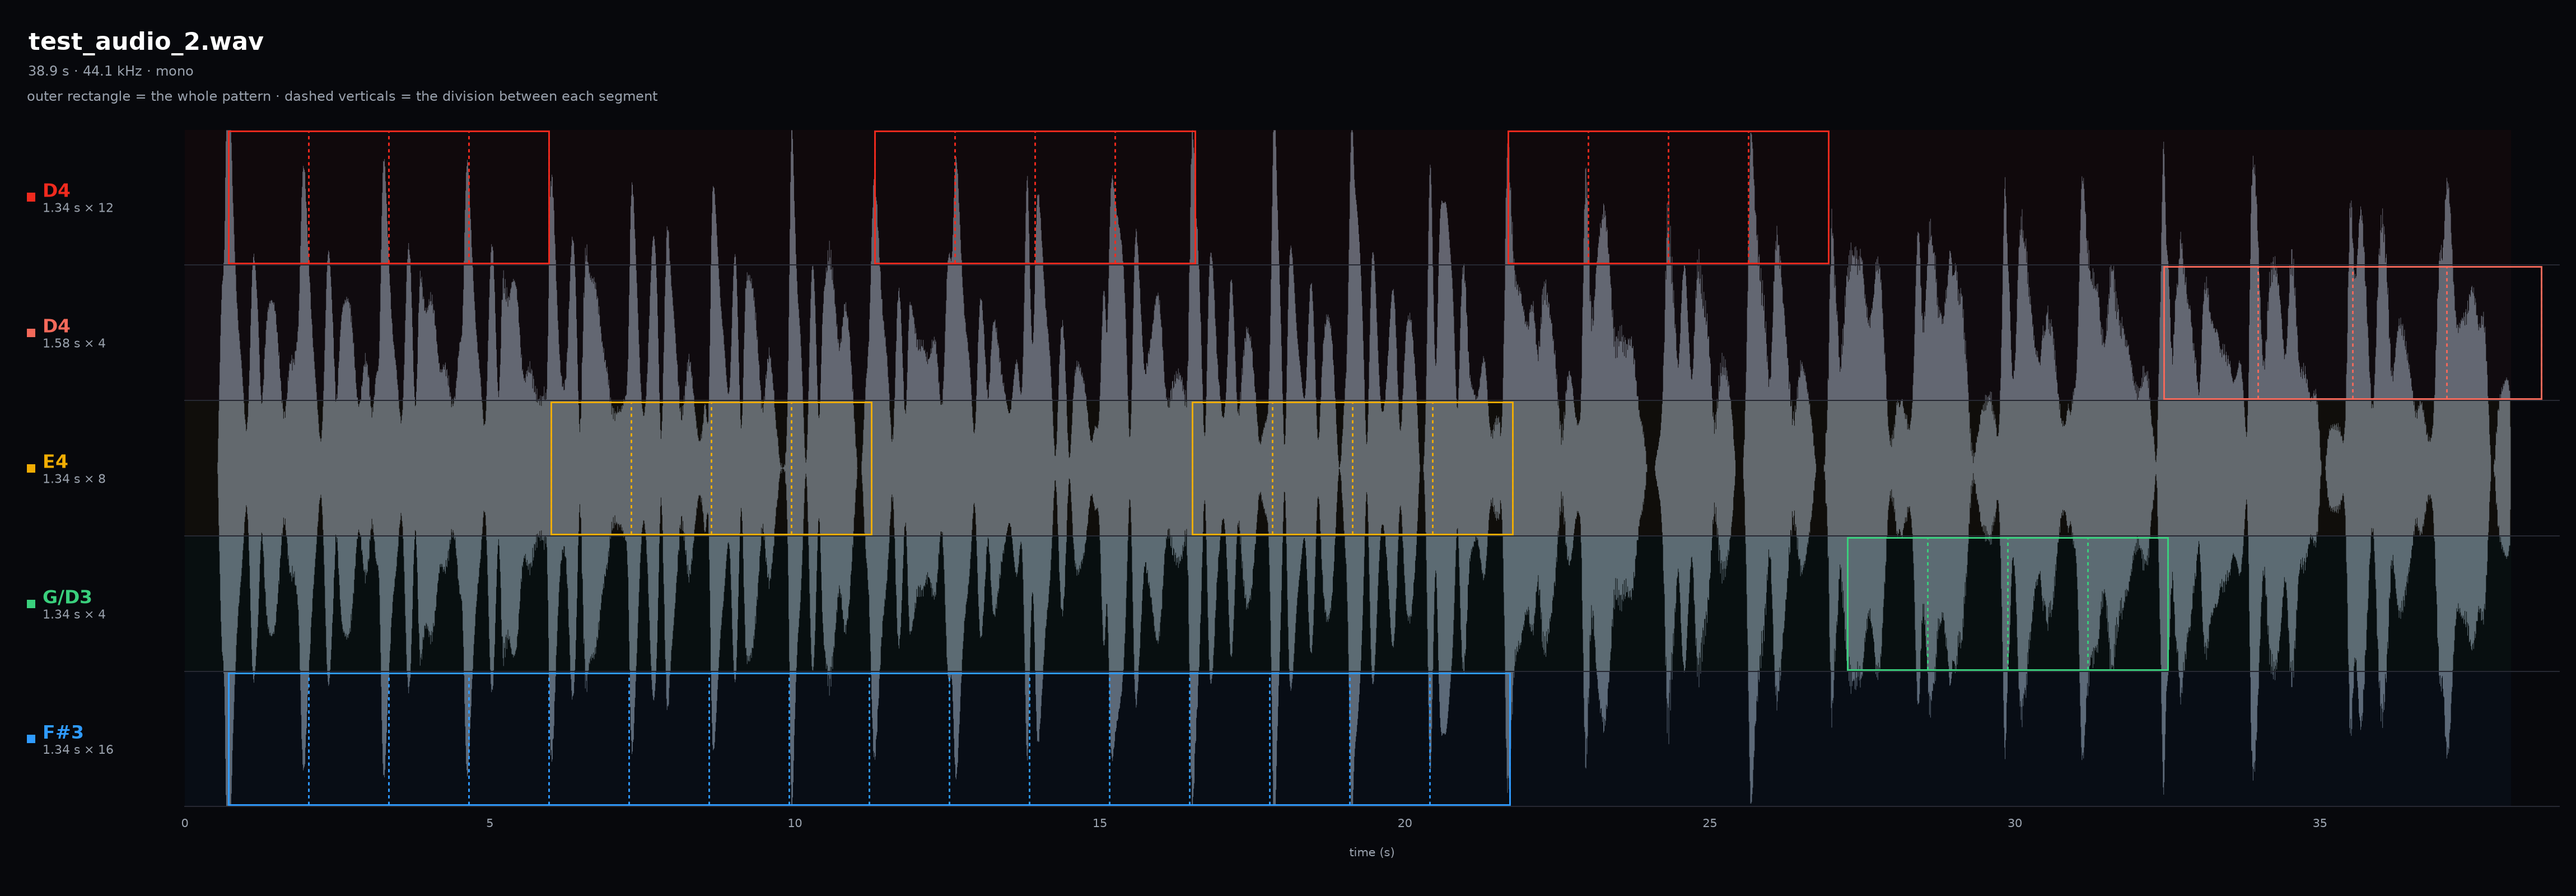
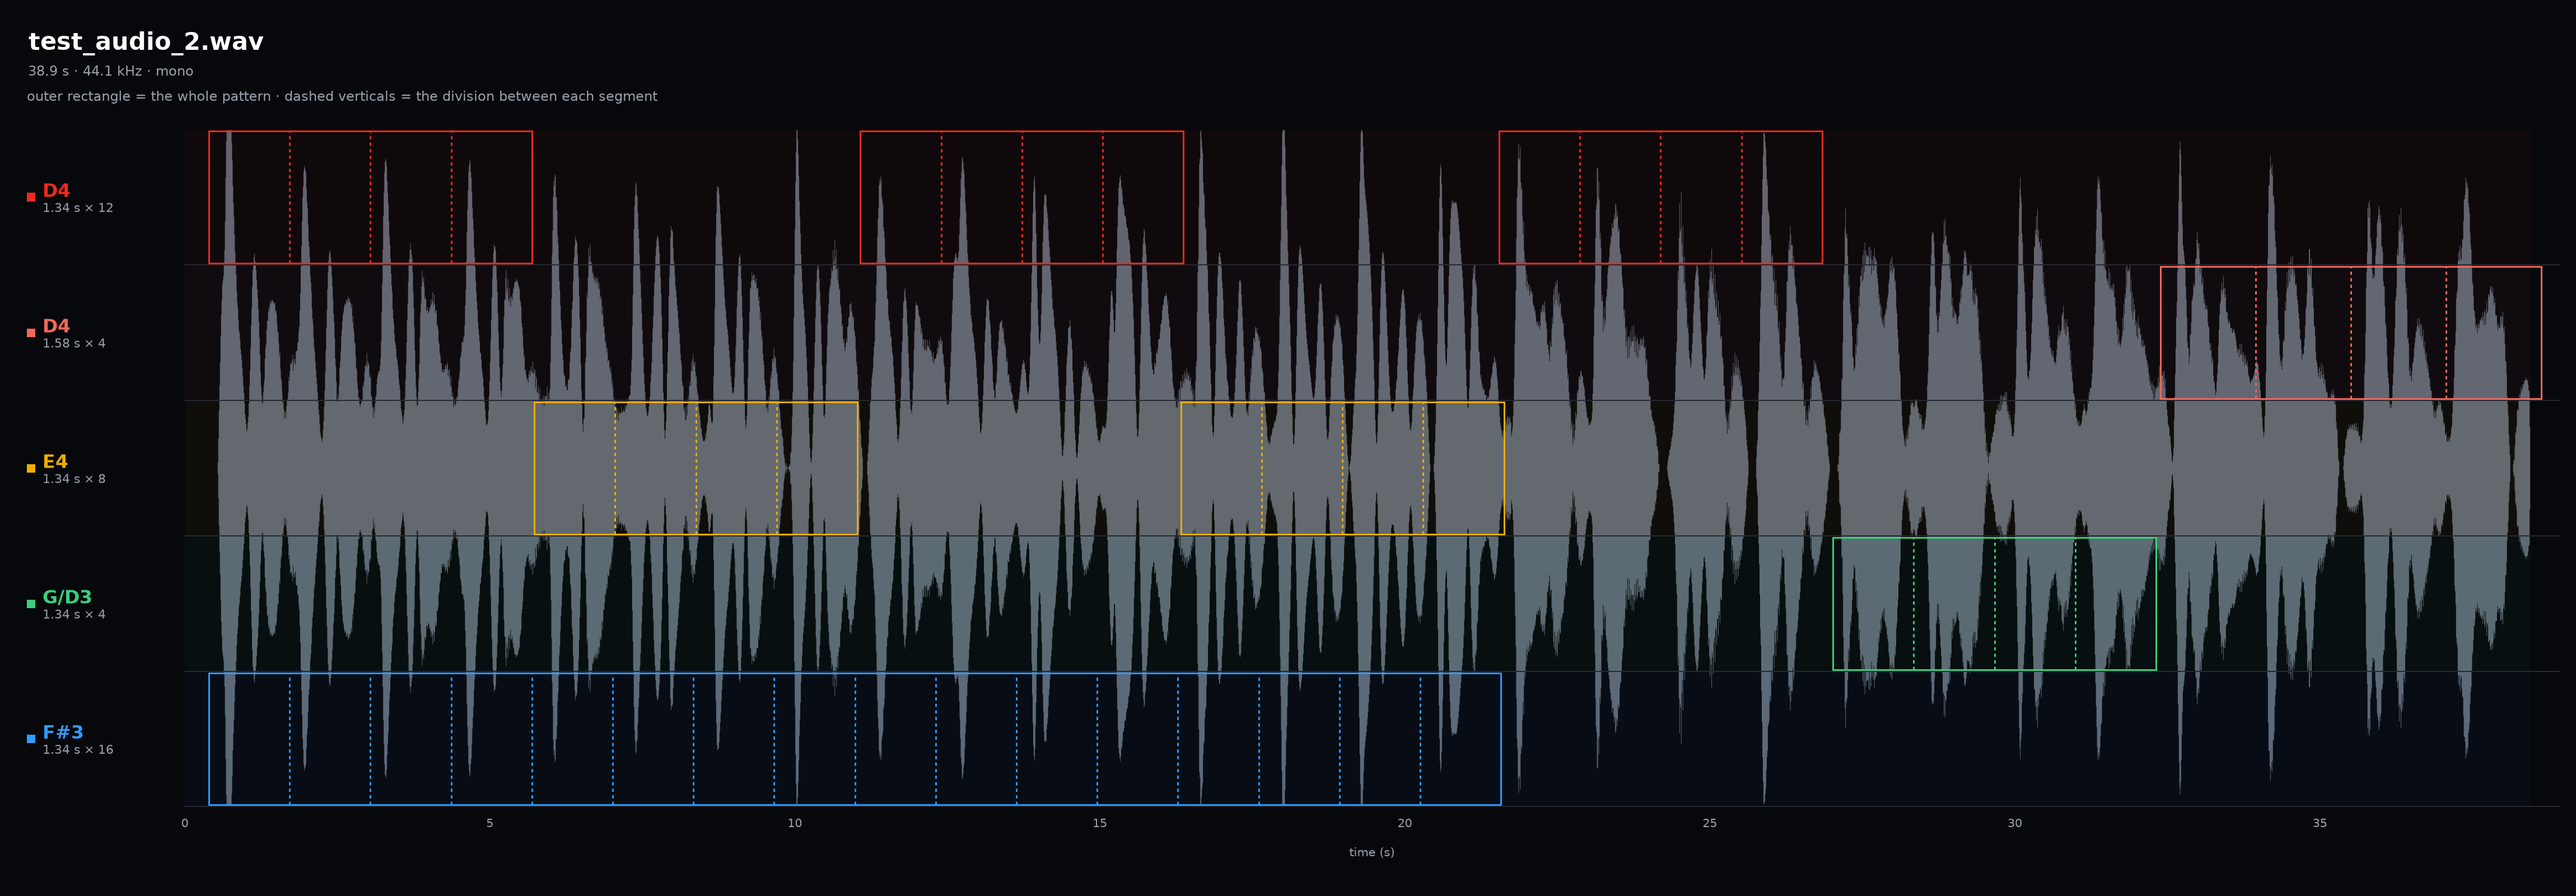
Start each test_audio_2 pattern a bit before its first onset
The diagram put every segment boundary on a stab's attack, so the dashes and
box edges sliced through the onsets they were meant to frame, and the same
happened to the off-beat F#3 strikes. The lines now sit in the gaps: each
pattern keeps its loop length and segment count, but starts part of a loop
before its first onset.

🤖 Generated with Codebuff

Changed region(s): [[0.0933, 0.1875, 0.9948, 0.875]]

diff --git a/skills/analyze-palettes/calibration_tests/diagram_template.py b/skills/analyze-palettes/calibration_tests/diagram_template.py
@@ -24,12 +24,14 @@ ROWS = {
         ("kick", "#3ad07d", (837, 1137), 2.158, 2.149700, [(0, 35)]),
         ("kick", "#87fa96", (1139, 1439), 2.158, 2.149700, [(0, 6), (17, 5)]),
     ],
+    # starts sit part of a loop before the first onset, so no attack splits a
+    # segment edge and the off-beat strikes stay inside their segments too
     "test_audio_2": [
-        ("D4", "#f12a1e", (232, 472), (0.73, 11.54, 22.14), 1.340, [(0, 4)] * 3),
-        ("D4", "#f4695a", (474, 714), (33.11,), 1.580, [(0, 4)]),
-        ("E4", "#f1ad03", (716, 956), (6.13, 16.86), 1.340, [(0, 4)] * 2),
-        ("G/D3", "#3ad07d", (958, 1198), (27.82,), 1.340, [(0, 4)]),
-        ("F#3", "#2f9bff", (1200, 1439), (0.73,), 1.340, [(0, 16)]),
+        ("D4", "#f12a1e", (232, 472), (0.40, 11.21, 21.81), 1.340, [(0, 4)] * 3),
+        ("D4", "#f4695a", (474, 714), (32.78,), 1.580, [(0, 4)]),
+        ("E4", "#f1ad03", (716, 956), (5.80, 16.53), 1.340, [(0, 4)] * 2),
+        ("G/D3", "#3ad07d", (958, 1198), (27.35,), 1.340, [(0, 4)]),
+        ("F#3", "#2f9bff", (1200, 1439), (0.40,), 1.340, [(0, 16)]),
     ],
 }
 

diff --git a/skills/analyze-palettes/calibration_tests/README.md b/skills/analyze-palettes/calibration_tests/README.md
@@ -25,7 +25,8 @@ Each test phrase below will have a key with the "correct" stats that should be d
 - The gray trace is the same waveform drawn once per pattern, so every pattern
   has its own row against the shared time axis. The waveform is a single mono recording; every row comes from the same audio and nothing here is a stack of separate stems.
 - The **outer rectangle** is the whole pattern: from its measured start to
-  the end of its last complete segment.
+  the end of its last complete segment. Its start sits part of a loop before the
+  first tracked onset, so no attack is split by a segment edge.
 - The **dashed verticals** divide the row into segments, one per loop
   iteration, at the pattern's loop length.
 - The row label gives a subjective description of the element being tracked (these are by no means standard and could be anything that helps orient the listener to the pattern evident) and `loop × segments`.
@@ -67,11 +68,11 @@ Each test phrase below will have a key with the "correct" stats that should be d
 
 | Tracked element | Segment length (s) | Segments | Region (s) |
 |---|---:|---:|---|
-| D4 | 1.34 | 4, 4, 4 | 0.73–6.09, 11.54–16.90, 22.14–27.50 |
-| D4 | 1.58 | 4 | 33.11–39.43 |
-| E4 | 1.34 | 4, 4 | 6.13–11.49, 16.86–22.22 |
-| G/D3 | 1.34 | 4 | 27.82–33.18 |
-| F#3 | 1.34 | 16 | 0.73–22.17 |
+| D4 | 1.34 | 4, 4, 4 | 0.40–5.76, 11.21–16.57, 21.81–27.17 |
+| D4 | 1.58 | 4 | 32.78–39.10 |
+| E4 | 1.34 | 4, 4 | 5.80–11.16, 16.53–21.89 |
+| G/D3 | 1.34 | 4 | 27.35–32.71 |
+| F#3 | 1.34 | 16 | 0.40–21.84 |
 
 The second D4 row is drawn in a lighter red: same element, slower segment
 spacing.
